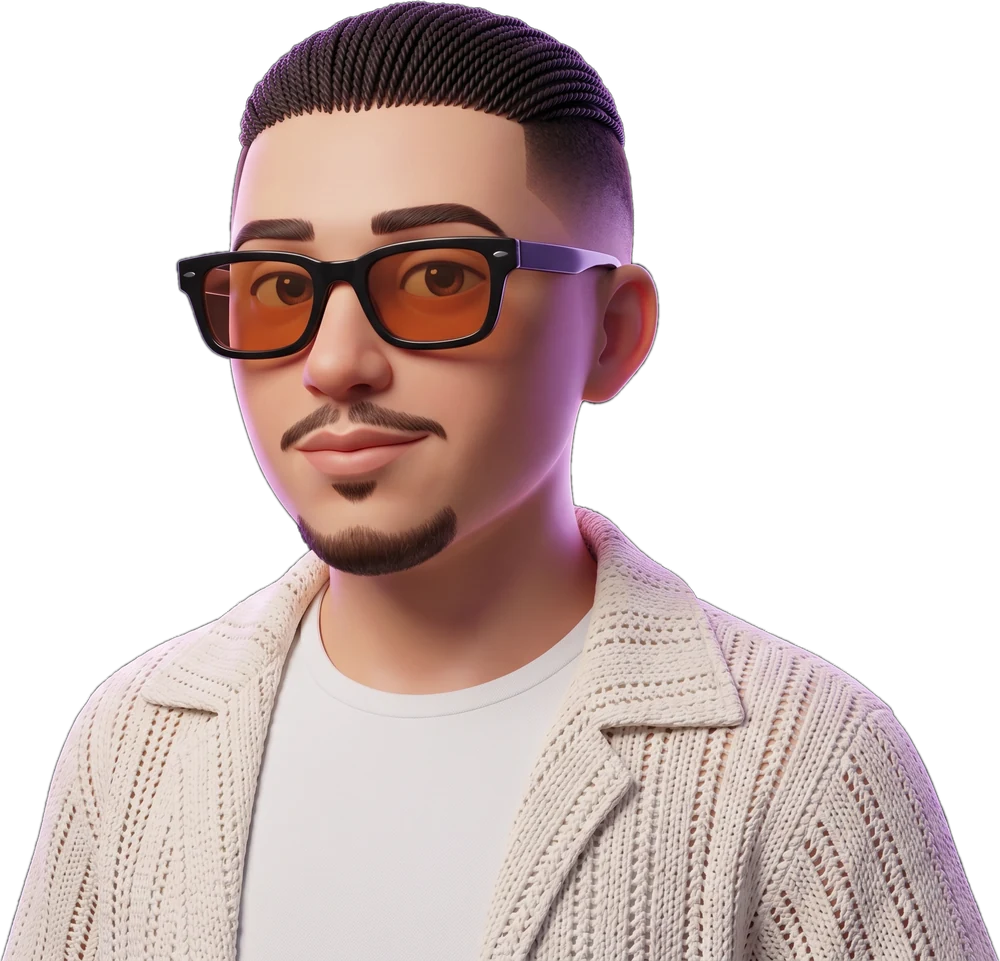
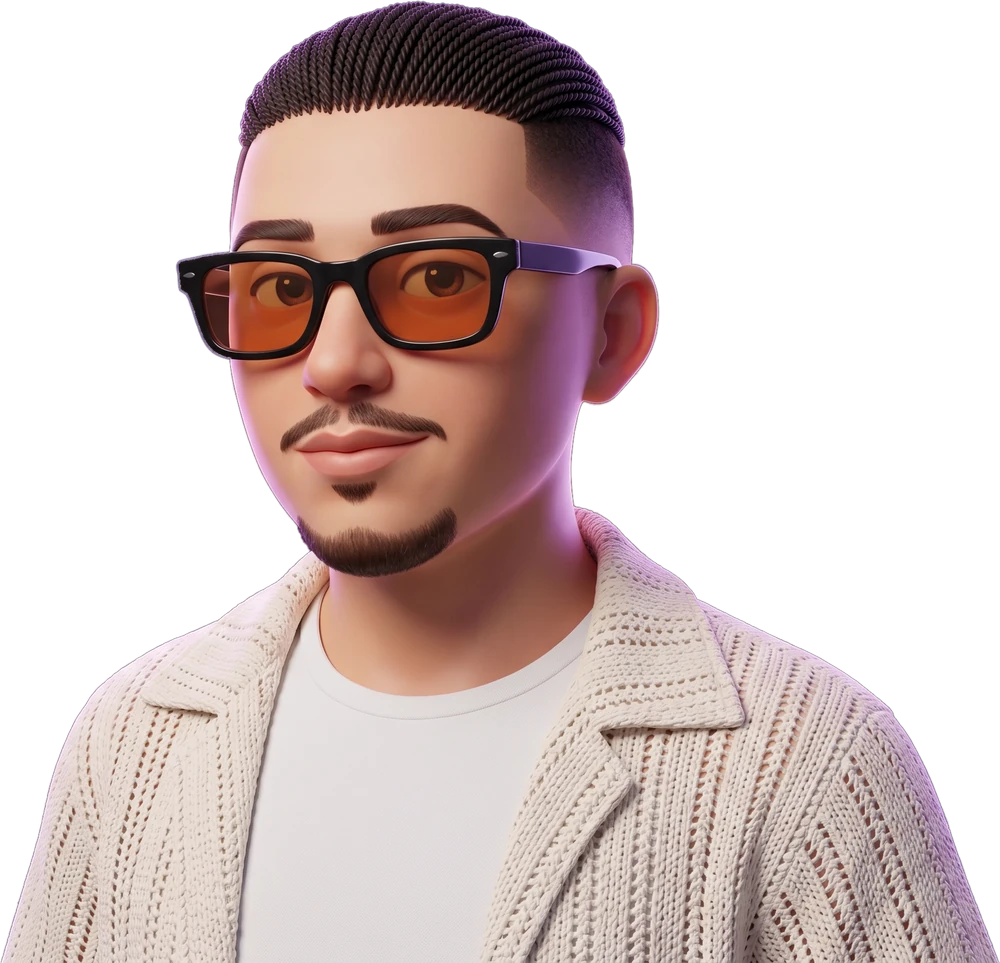
Clean character cutouts: no dark fringe, no shadow over the headline
Claude-Session: https://claude.ai/code/session_01VXXAcJEEEktwimZtrp579k

Changed region(s): [[0.837, 0.7804, 1.0, 1.0], [0.062, 0.9365, 0.093, 0.999], [0.124, 0.8117, 0.155, 0.8429]]

diff --git a/src/App.tsx b/src/App.tsx
@@ -180,7 +180,7 @@ function Hero() {
         {/* the head sits on top of the headline, touching the letters like in the reference */}
         <div ref={avatar} className="relative z-10 mx-auto -mt-[7vw] w-[64vw] max-w-[440px] sm:absolute sm:top-0 sm:left-1/2 sm:mt-[-6.6vw] sm:w-[29vw] sm:max-w-[560px] sm:-translate-x-1/2">
           <div>
-            <img src={img('ace-head.webp')} alt="Doston «Ace» Daminov" className="hero-head w-full drop-shadow-[0_30px_60px_rgba(0,0,0,0.7)]" />
+            <img src={img('ace-head.webp')} alt="Doston «Ace» Daminov" className="hero-head w-full" />
           </div>
         </div>
 
